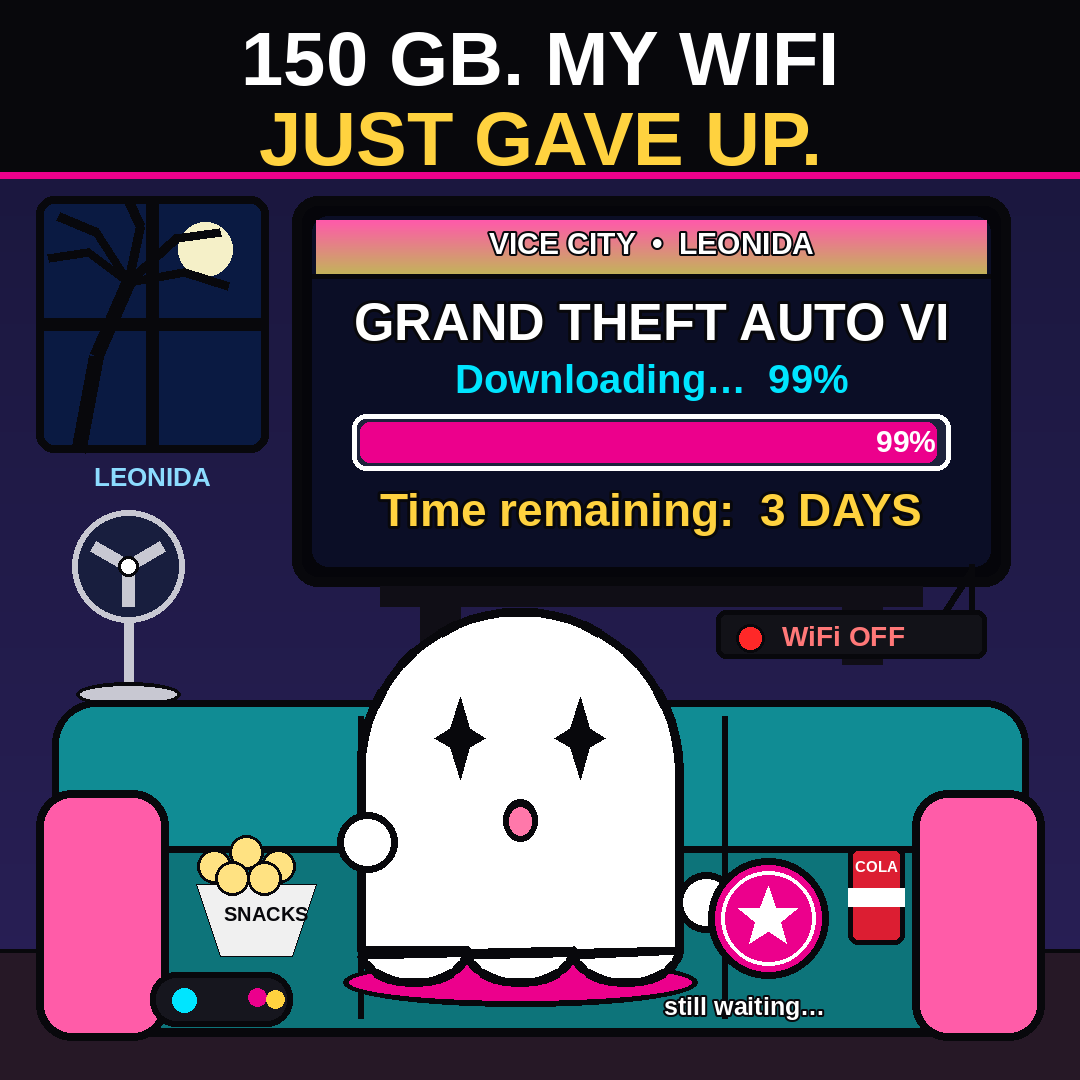
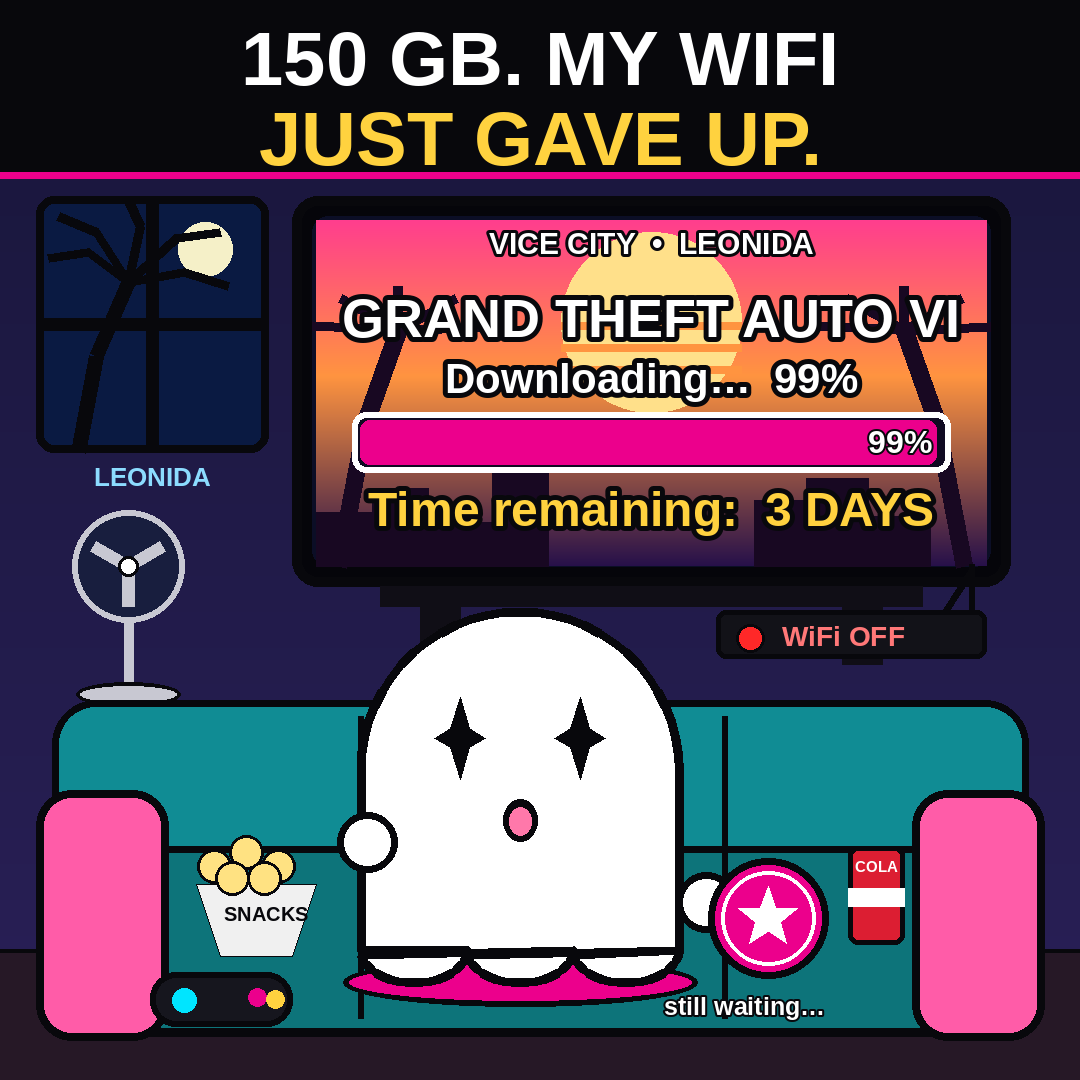
Vice City sunset backdrop for the TV download screen (sun, palms, skyline)

Changed region(s): [[0.275, 0.1833, 0.9167, 0.55]]

diff --git a/tools/make_meme.py b/tools/make_meme.py
@@ -162,21 +162,45 @@ def main():
     # ---- TV ----
     rounded(d, [292, 196, 1010, 586], 26, fill=(5, 5, 10), outline=BLACK, width=10)
     rounded(d, [312, 216, 990, 566], 16, fill=(11, 14, 38))
-    # vice sunset strip at top of screen
-    for i in range(54):
-        t = i / 54
-        col = (int(255 - 60 * t), int(90 + 90 * t), int(170 - 80 * t))
-        d.line([(316, 220 + i), (986, 220 + i)], fill=col)
-    d.rectangle([312, 274, 990, 278], fill=BLACK)
-    text_center(d, 651, 226, "VICE CITY  •  LEONIDA", font(30), fill=WHITE, stroke=2)
-    text_center(d, 651, 292, "GRAND THEFT AUTO VI", font(52), fill=WHITE, stroke=3)
-    text_center(d, 651, 356, "Downloading…  99%", font(40), fill=CYAN)
-    # progress bar at 99%
-    rounded(d, [352, 414, 950, 470], 14, fill=(30, 34, 60), outline=WHITE, width=5)
+    # Vice City sunset backdrop for the WHOLE download screen (Gemini note):
+    # pink -> orange -> deep purple gradient behind the UI itself, so the
+    # screen alone screams GTA 6 / Leonida, not a generic download.
+    sunset_top, sunset_mid, sunset_bot = (255, 62, 142), (255, 148, 64), (38, 16, 74)
+    for i in range(346):
+        y = 220 + i
+        t = i / 346
+        if t < 0.45:
+            u = t / 0.45
+            col = tuple(int(sunset_top[c] + (sunset_mid[c] - sunset_top[c]) * u) for c in range(3))
+        else:
+            u = (t - 0.45) / 0.55
+            col = tuple(int(sunset_mid[c] + (sunset_bot[c] - sunset_mid[c]) * u) for c in range(3))
+        d.line([(316, y), (986, y)], fill=col)
+    # low sun disc behind the title
+    d.ellipse([561, 232, 741, 412], fill=(255, 224, 138))
+    for sy in (322, 344, 366):  # retro sun slits
+        d.rectangle([561, sy, 741, sy + 7], fill=sunset_mid)
+    # palm silhouettes framing the screen (dark against the sunset)
+    for trunk, flip in ([(338, 566), (366, 420), (398, 330)], 1), ([(964, 566), (936, 420), (904, 330)], -1):
+        d.line(trunk, fill=(24, 8, 34), width=17)
+        px, py = trunk[-1]
+        for dx, dy in ((-86, -34), (-58, -62), (0, -74), (58, -62), (86, -34)):
+            d.line([(px, py), (px + dx * flip, py + dy + 30)], fill=(24, 8, 34), width=10, joint="curve")
+    # Leonida skyline silhouette along the screen bottom
+    sky = [(316, 566), (316, 512), (372, 512), (372, 488), (428, 488), (428, 522),
+           (492, 522), (492, 472), (548, 472), (548, 566)]
+    d.polygon(sky, fill=(24, 8, 34))
+    d.polygon([(x, y) for x, y in [(754, 566), (754, 500), (806, 500), (806, 478),
+                                   (868, 478), (868, 516), (930, 516), (930, 566)]], fill=(24, 8, 34))
+    text_center(d, 651, 226, "VICE CITY  •  LEONIDA", font(30), fill=WHITE, stroke=3)
+    text_center(d, 651, 288, "GRAND THEFT AUTO VI", font(54), fill=WHITE, stroke=5)
+    text_center(d, 651, 354, "Downloading…  99%", font(42), fill=WHITE, stroke=5)
+    # progress bar at 99% — dark track + white rim so magenta pops on sunset
+    rounded(d, [352, 412, 950, 472], 14, fill=(16, 10, 34), outline=WHITE, width=6)
     fill_w = int((950 - 352 - 16) * 0.99)
-    rounded(d, [360, 422, 360 + fill_w, 462], 10, fill=MAGENTA)
-    d.text((876, 424), "99%", font=font(30), fill=WHITE)
-    text_center(d, 651, 484, "Time remaining:  3 DAYS", font(46), fill=YELLOW, stroke=3)
+    rounded(d, [360, 420, 360 + fill_w, 464], 10, fill=MAGENTA)
+    d.text((868, 424), "99%", font=font(32), fill=WHITE, stroke_width=2, stroke_fill=BLACK)
+    text_center(d, 651, 482, "Time remaining:  3 DAYS", font(48), fill=YELLOW, stroke=5)
 
     # standing fan, left wall — head, blades, pole (visible, not behind TV)
     fx, fy = 128, 566
